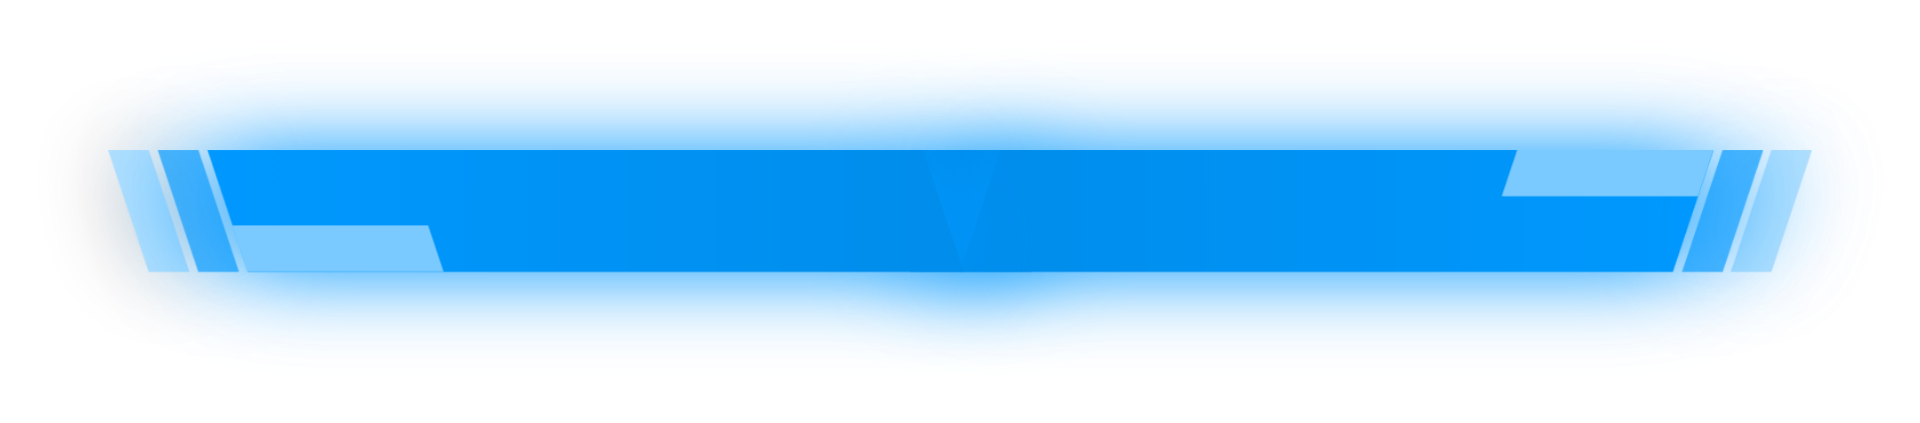
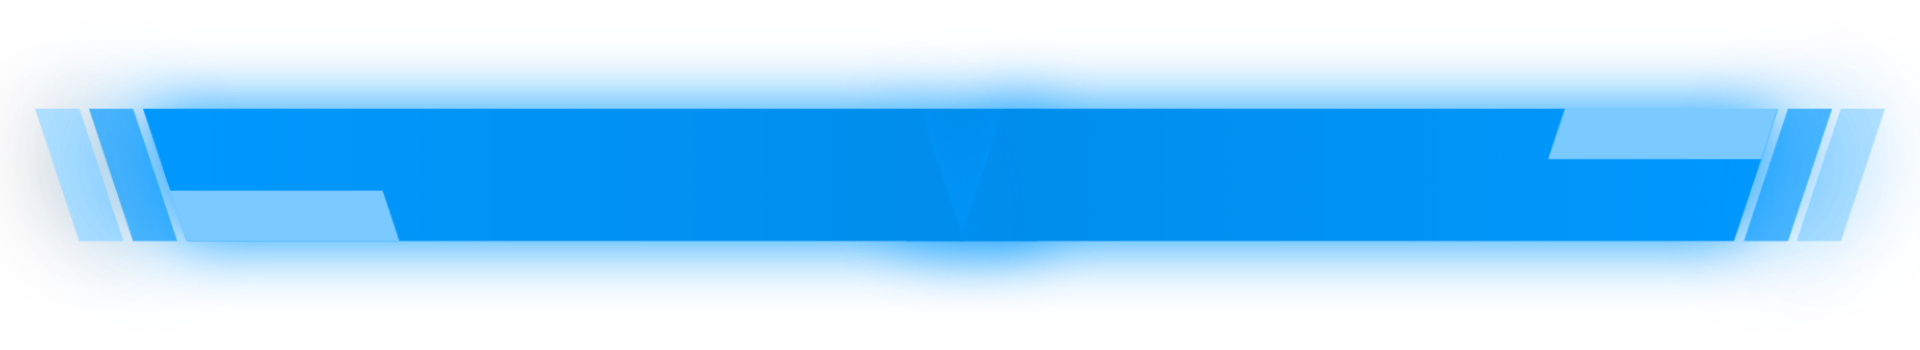
Added header responsiveness

Changed region(s): [[0.0, 0.2, 1.0, 0.8]]

diff --git a/style.css b/style.css
@@ -22,7 +22,6 @@ body {
   padding: 2rem;
   background: #111827;
   color: white;
-  font-family: Arial, Helvetica, sans-serif;
   gap: 1rem;
 }
 
@@ -67,7 +66,7 @@ header.welcome-header {
   display: flex;
   justify-content: center;
   align-items: center;
-  overflow: hidden;
+  overflow: visible;
 
   margin: -50px auto;
 }
@@ -75,7 +74,34 @@ header.welcome-header {
 img.header-bg {
   width: 80%;
   height: auto;
-  display: block;
+}
+
+img#long-header {
+  display: block !important;
+}
+
+img#small-header {
+  display: none !important;
+}
+
+@media (max-width: 600px) {
+  h1.welcome-header-text {
+    width: 75%;
+    font-size: clamp(1rem, 6vw, 5rem);
+  }
+  img#long-header {
+    display: none !important;
+  }
+  img#small-header {
+    display: block !important;
+  }
+}
+
+@media (min-width: 601px) {
+  h1.welcome-header-text {
+    width: 95%;
+    font-size: clamp(1rem, 3.5vw, 2.5rem);
+  }
 }
 
 h1.welcome-header-text {
@@ -84,9 +110,8 @@ h1.welcome-header-text {
   left: 50%;
   transform: translate(-50%, -50%);
   text-align: center;
-  width: 90%;
+  /*width: 90%;*/
   margin: 0;
-  font-size: clamp(1rem, 4vw, 2.5rem);
 }
 
 @media (max-width: 1400px) {
@@ -96,10 +121,6 @@ h1.welcome-header-text {
 
   header.welcome-header {
     margin: -40px auto;
-  }
-
-  h1.welcome-header-text {
-    width: 95%;
   }
 }
 
@@ -111,11 +132,6 @@ h1.welcome-header-text {
   header.welcome-header {
     margin: -20px auto;
     width: 100%;
-  }
-
-  h1.welcome-header-text {
-    width: 95%;
-    font-size: 170%;
   }
 }
 
@@ -369,29 +385,22 @@ html {
 }
 
 /** MAIN PAGE **/
-/* ==========================================
-   BULLET ECHO - GLOBAL CONTAINER STYLE
-   ========================================== */
 
-/* Główny kontener o charakterze wojskowego taktycznego huba */
 .container {
   margin: 0 auto;
   max-width: 1200px;
   padding: 20px;
-  background-color: #0b0f12; /* Bardzo ciemny grafit */
+  background-color: #0b0f12;
   color: #e0e6ed;
   font-family: "Segoe UI", Impact, Roboto, sans-serif;
 }
 
-/* ==========================================
-   SEKCJA HERO (NAGŁÓWEK KONTENERA)
-   ========================================== */
 .welcome-hero {
   display: flex;
   justify-content: space-between;
   align-items: center;
   background: linear-gradient(135deg, #141a22 0%, #1a2430 100%);
-  border-left: 5px solid #00ff66; /* Jaskrawa zieleń Bullet Echo */
+  border-left: 5px solid #00ff66;
   padding: 25px;
   margin-bottom: 30px;
   clip-path: polygon(
@@ -420,9 +429,8 @@ html {
   line-height: 1.5;
 }
 
-/* Odznaka Kodu Twórcy stylizowana na skrzynkę z zaopatrzeniem */
 .creator-badge {
-  background: #1e1112; /* Ciemnoczerwone tło ostrzegawcze */
+  background: #1e1112;
   border: 2px solid #ff3344;
   padding: 15px;
   text-align: center;
@@ -461,9 +469,6 @@ html {
   color: #ffb3b9;
 }
 
-/* ==========================================
-   SIATKA FUNKCJI (KARTY)
-   ========================================== */
 .features-grid {
   display: grid;
   grid-template-columns: repeat(auto-fit, minmax(280px, 1fr));
@@ -471,7 +476,6 @@ html {
   margin-bottom: 30px;
 }
 
-/* Standardowa karta taktyczna */
 .feature-card {
   background: #121820;
   border: 2px solid #26354a;
@@ -497,9 +501,8 @@ html {
   border-color: #00ff66;
 }
 
-/* Karta wyróżniona (np. Kalkulatory) */
 .feature-card.highlighted {
-  border-color: #ffcc00; /* Żółty legendarny kolor */
+  border-color: #ffcc00;
   background: linear-gradient(145deg, #121820 0%, #1c1a10 100%);
 }
 
@@ -532,7 +535,6 @@ html {
   margin-bottom: 20px;
 }
 
-/* Przyciski na kartach akcji */
 .card-btn {
   display: block;
   text-align: center;
@@ -561,9 +563,6 @@ html {
   border-color: #ffcc00;
 }
 
-/* ==========================================
-   SEKCJA LATEST & STATUS (DOLNE PANELE)
-   ========================================= */
 .latest-section {
   display: grid;
   grid-template-columns: 1fr 1fr;
@@ -604,10 +603,10 @@ html {
 
 .latest-video h3 {
   color: #ff0044;
-} /* Kolor YouTube */
+}
 .quick-status h3 {
   color: #00bfff;
-} /* Kolor informacji cyfrowej */
+}
 
 .yt-link {
   display: inline-flex;

diff --git a/calculators/calculator.html b/calculators/calculator.html
@@ -17,14 +17,22 @@
   <body>
     <header class="welcome-header">
       <img
-        src="../images/be_UI_single_stripe.png"
+        src="images/be_ui_single_stripe.png"
         alt="Background"
         class="header-bg"
+        id="long-header"
+      />
+      <img
+        src="images/be_ui_single_stripe_small.png"
+        alt="Background"
+        class="header-bg"
+        id="small-header"
       />
       <h1 class="welcome-header-text">
         Welcome to Bullet Echo Knowledge Tool (BEKT)!
       </h1>
     </header>
+
     <div class="page-wrapper">
       <main>
         <div class="container" id="main-container">

diff --git a/calculators/index.html b/calculators/index.html
@@ -17,9 +17,16 @@
   <body>
     <header class="welcome-header">
       <img
-        src="../images/be_UI_single_stripe.png"
+        src="images/be_ui_single_stripe.png"
         alt="Background"
         class="header-bg"
+        id="long-header"
+      />
+      <img
+        src="images/be_ui_single_stripe_small.png"
+        alt="Background"
+        class="header-bg"
+        id="small-header"
       />
       <h1 class="welcome-header-text">
         Welcome to Bullet Echo Knowledge Tool (BEKT)!

diff --git a/heroes/index.html b/heroes/index.html
@@ -20,9 +20,16 @@
   <body>
     <header class="welcome-header">
       <img
-        src="../images/be_UI_single_stripe.png"
+        src="images/be_ui_single_stripe.png"
         alt="Background"
         class="header-bg"
+        id="long-header"
+      />
+      <img
+        src="images/be_ui_single_stripe_small.png"
+        alt="Background"
+        class="header-bg"
+        id="small-header"
       />
       <h1 class="welcome-header-text">
         Welcome to Bullet Echo Knowledge Tool (BEKT)!

diff --git a/index.html b/index.html
@@ -16,9 +16,16 @@
   <body>
     <header class="welcome-header">
       <img
-        src="images/be_UI_single_stripe.png"
+        src="images/be_ui_single_stripe.png"
         alt="Background"
         class="header-bg"
+        id="long-header"
+      />
+      <img
+        src="images/be_ui_single_stripe_small.png"
+        alt="Background"
+        class="header-bg"
+        id="small-header"
       />
       <h1 class="welcome-header-text">
         Welcome to Bullet Echo Knowledge Tool (BEKT)!

diff --git a/minigames/crossword.html b/minigames/crossword.html
@@ -16,9 +16,16 @@
   <body>
     <header class="welcome-header">
       <img
-        src="../images/be_UI_single_stripe.png"
+        src="images/be_ui_single_stripe.png"
         alt="Background"
         class="header-bg"
+        id="long-header"
+      />
+      <img
+        src="images/be_ui_single_stripe_small.png"
+        alt="Background"
+        class="header-bg"
+        id="small-header"
       />
       <h1 class="welcome-header-text">
         Welcome to Bullet Echo Knowledge Tool (BEKT)!

diff --git a/minigames/depixelisation.html b/minigames/depixelisation.html
@@ -16,9 +16,16 @@
   <body>
     <header class="welcome-header">
       <img
-        src="../images/be_UI_single_stripe.png"
+        src="images/be_ui_single_stripe.png"
         alt="Background"
         class="header-bg"
+        id="long-header"
+      />
+      <img
+        src="images/be_ui_single_stripe_small.png"
+        alt="Background"
+        class="header-bg"
+        id="small-header"
       />
       <h1 class="welcome-header-text">
         Welcome to Bullet Echo Knowledge Tool (BEKT)!

diff --git a/minigames/guess_the_hero.html b/minigames/guess_the_hero.html
@@ -15,9 +15,16 @@
   <body>
     <header class="welcome-header">
       <img
-        src="../images/be_UI_single_stripe.png"
+        src="images/be_ui_single_stripe.png"
         alt="Background"
         class="header-bg"
+        id="long-header"
+      />
+      <img
+        src="images/be_ui_single_stripe_small.png"
+        alt="Background"
+        class="header-bg"
+        id="small-header"
       />
       <h1 class="welcome-header-text">
         Welcome to Bullet Echo Knowledge Tool (BEKT)!

diff --git a/minigames/guess_the_map.html b/minigames/guess_the_map.html
@@ -16,9 +16,16 @@
   <body>
     <header class="welcome-header">
       <img
-        src="../images/be_UI_single_stripe.png"
+        src="images/be_ui_single_stripe.png"
         alt="Background"
         class="header-bg"
+        id="long-header"
+      />
+      <img
+        src="images/be_ui_single_stripe_small.png"
+        alt="Background"
+        class="header-bg"
+        id="small-header"
       />
       <h1 class="welcome-header-text">
         Welcome to Bullet Echo Knowledge Tool (BEKT)!

diff --git a/minigames/index.html b/minigames/index.html
@@ -16,9 +16,16 @@
   <body>
     <header class="welcome-header">
       <img
-        src="../images/be_UI_single_stripe.png"
+        src="images/be_ui_single_stripe.png"
         alt="Background"
         class="header-bg"
+        id="long-header"
+      />
+      <img
+        src="images/be_ui_single_stripe_small.png"
+        alt="Background"
+        class="header-bg"
+        id="small-header"
       />
       <h1 class="welcome-header-text">
         Welcome to Bullet Echo Knowledge Tool (BEKT)!

diff --git a/minigames/guess_the_map.css b/minigames/guess_the_map.css
@@ -31,5 +31,5 @@ button:disabled {
 }
 
 #fragment-image {
-  max-height: 450px;
+  max-height: 430px;
 }